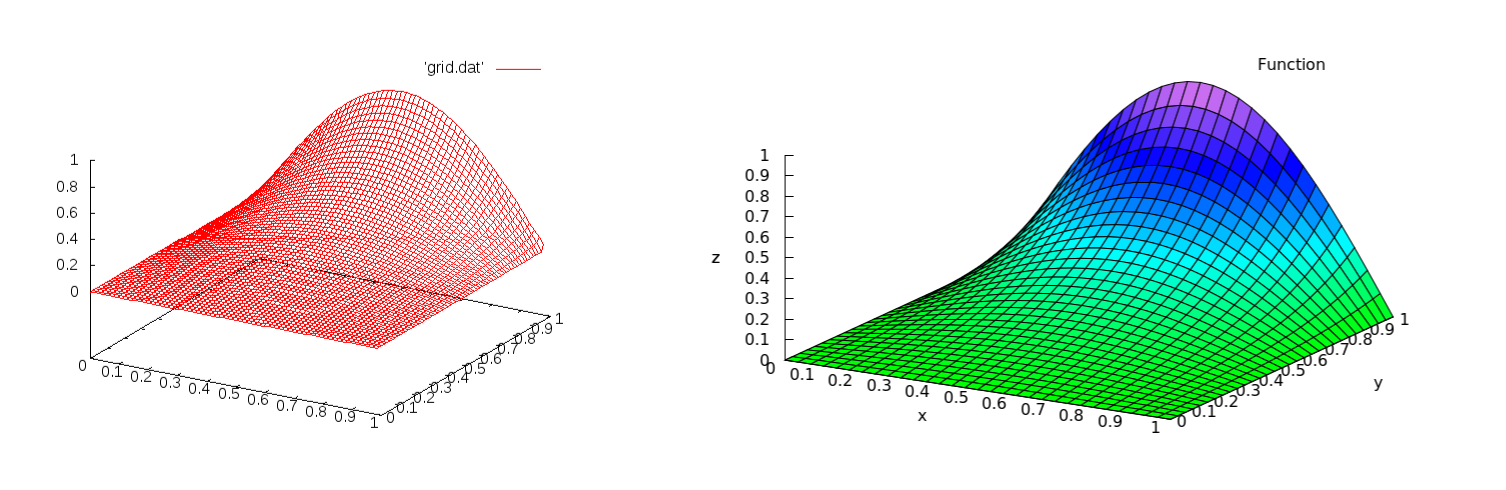
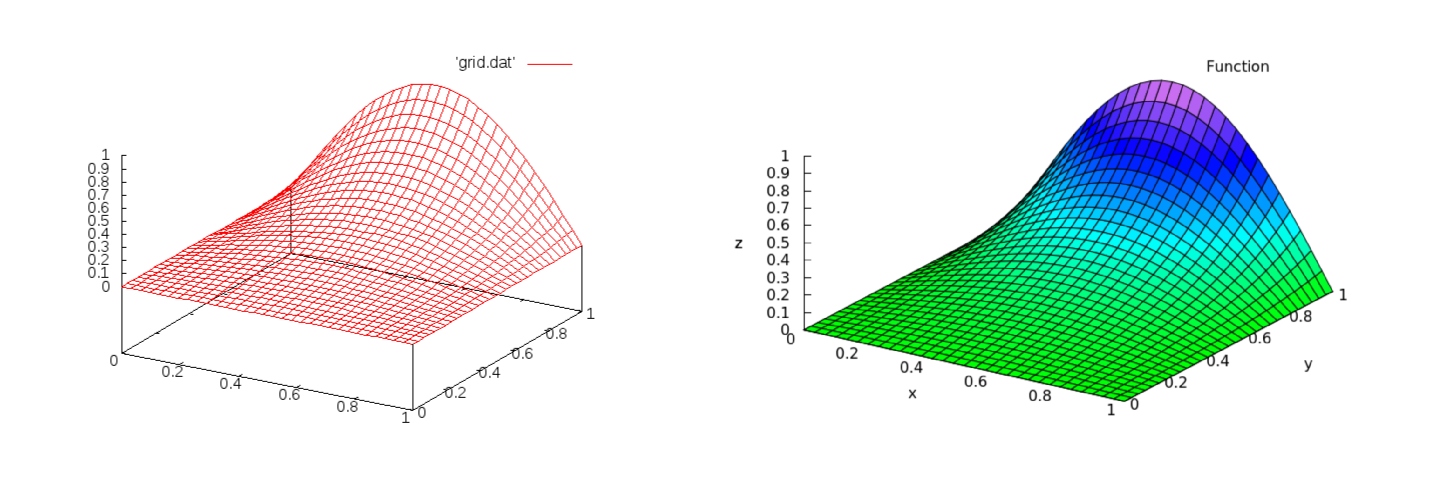
fix a bug on calculating grid spacing

Changed region(s): [[0.4903, 0.1543, 0.9499, 0.8951], [0.0306, 0.1235, 0.429, 0.8642], [0.8273, 0.1235, 0.8886, 0.1543]]

diff --git a/grid.h b/grid.h
@@ -11,7 +11,7 @@ class grid2d
 {
 public:
   grid2d(const T2 nx, const T2 ny, const T1 w, const T1 h)
-    : nx_(nx), ny_(ny), dim_(nx*ny), w_(w), h_(h), dx_(w/nx), dy_(h/ny) {
+    : nx_(nx), ny_(ny), dim_(nx*ny), w_(w), h_(h), dx_(w/(nx-1)), dy_(h/(ny-1)) {
     data_ = (T1 *)malloc(sizeof(T1)*dim_);
     memset(data_, 0, sizeof(T1)*dim_);
   }

diff --git a/main.cc b/main.cc
@@ -8,8 +8,8 @@ using namespace std;
 using namespace poisson;
 using namespace Eigen;
 
-#define XDIM   256
-#define YDIM   256
+#define XDIM   128
+#define YDIM   128
 #define WIDTH  1.0
 #define HEIGHT 1.0
 
